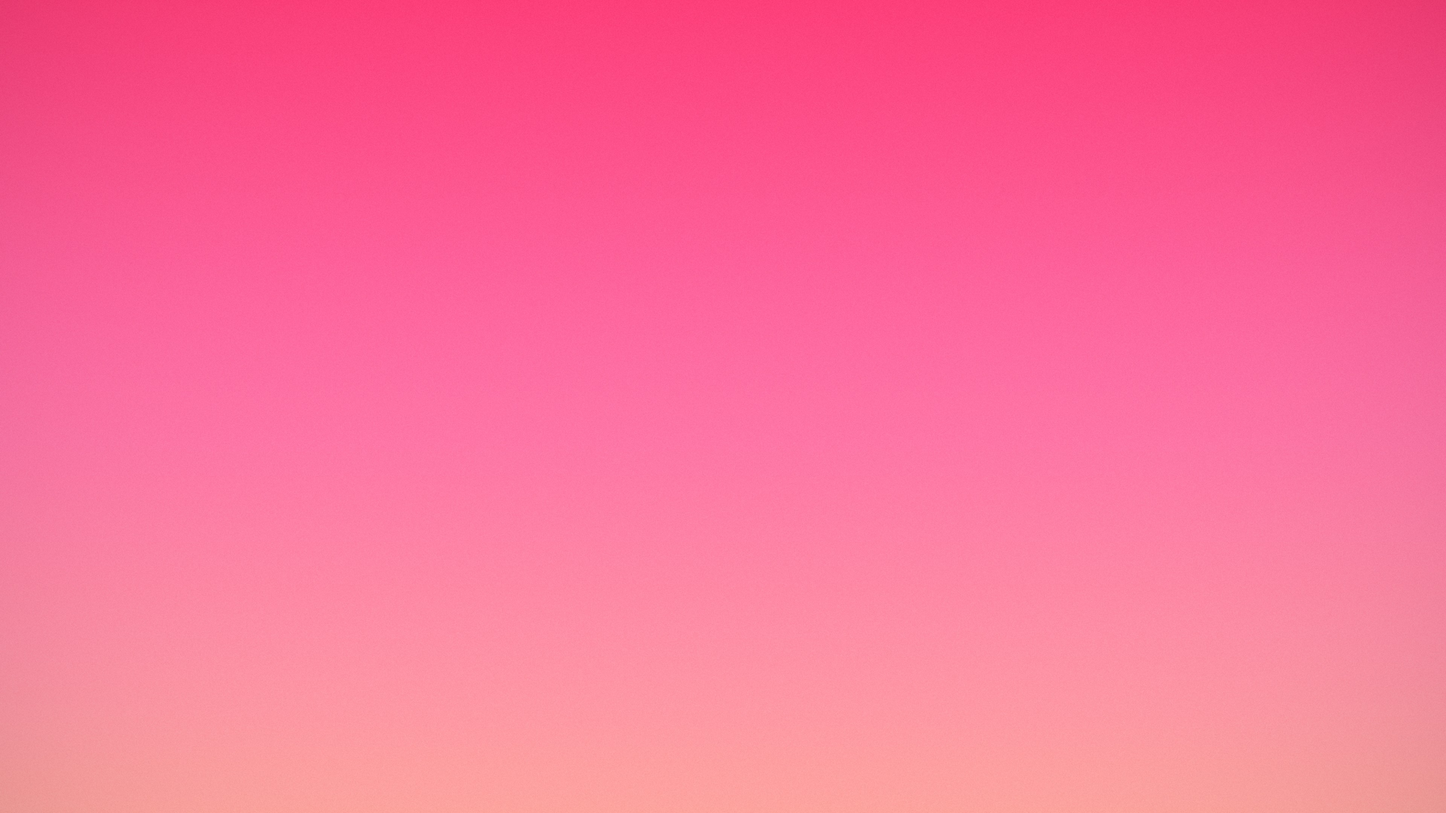
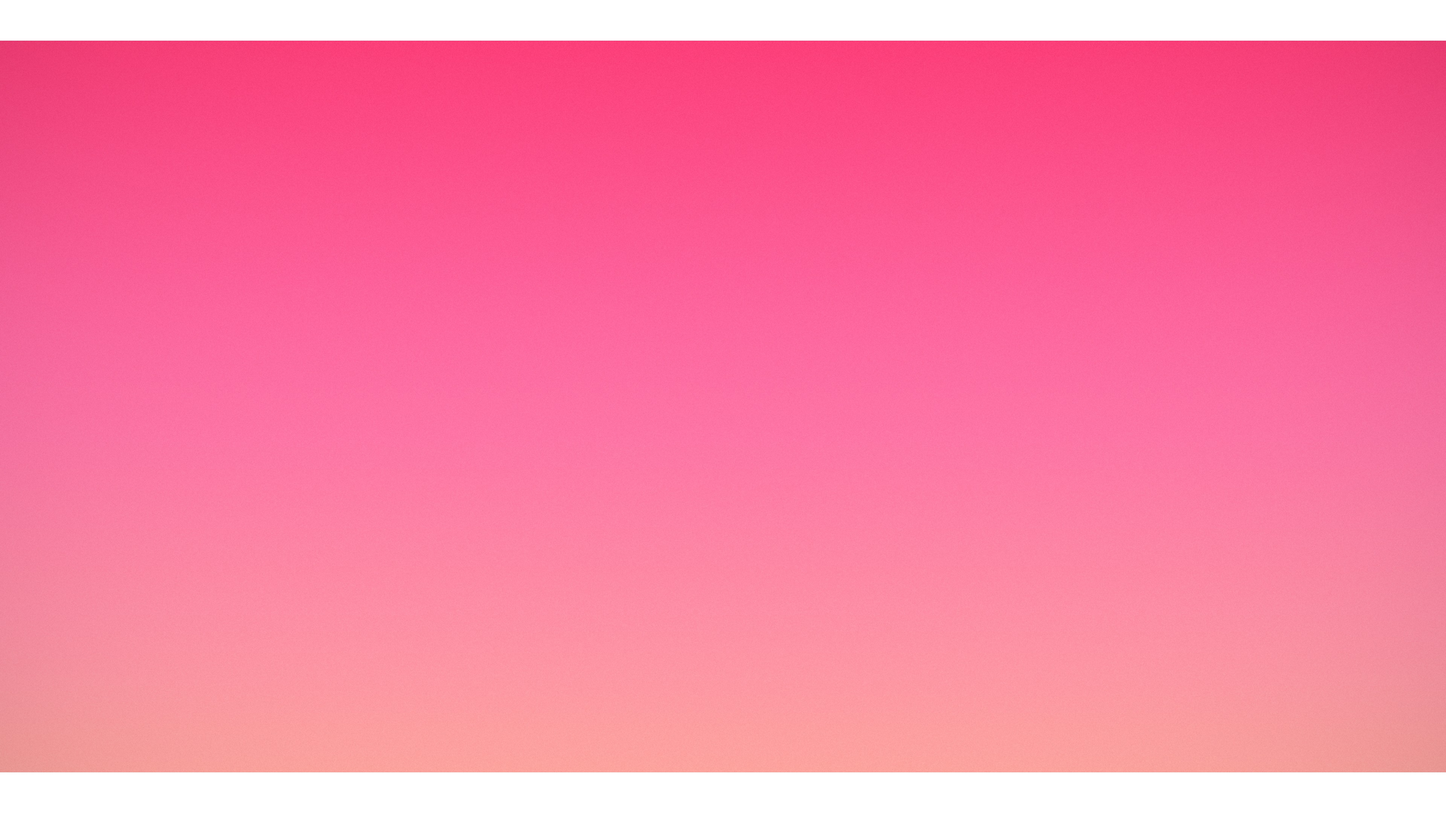
Improved background

Changed region(s): [[0.0, 0.9306, 1.0, 1.0], [0.0, 0.0, 1.0, 0.062]]

diff --git a/assets/stylesheets/live.css b/assets/stylesheets/live.css
@@ -1,7 +1,7 @@
 /* Style rules for Slick beauty section*/
 .slick-row {
     background: url("../images/pink_bg.jpg");
-    background-size: cover;
+    background-size: contain;
 }
 
 .slick-card {
